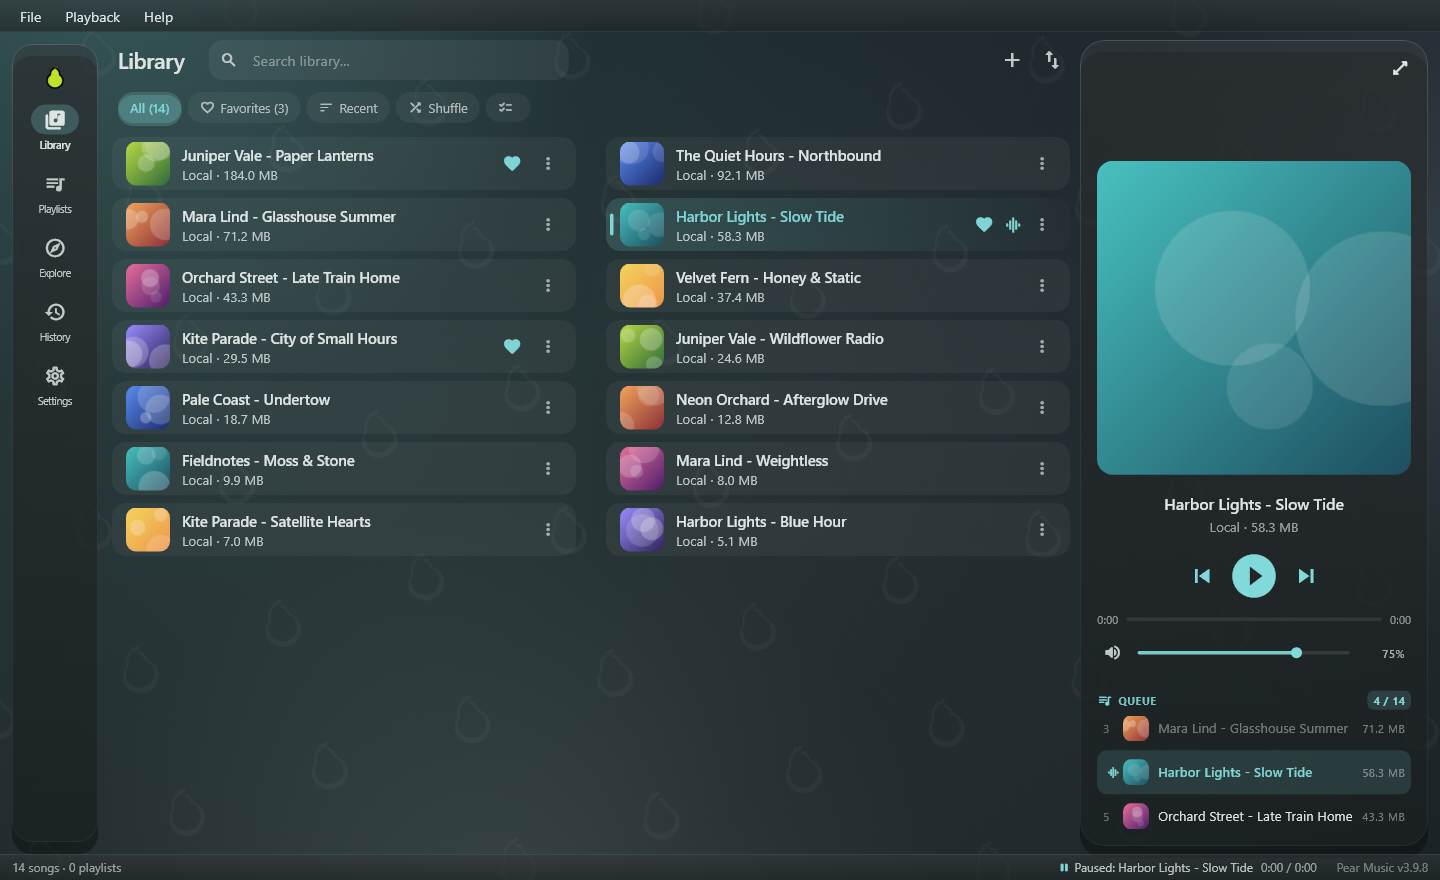
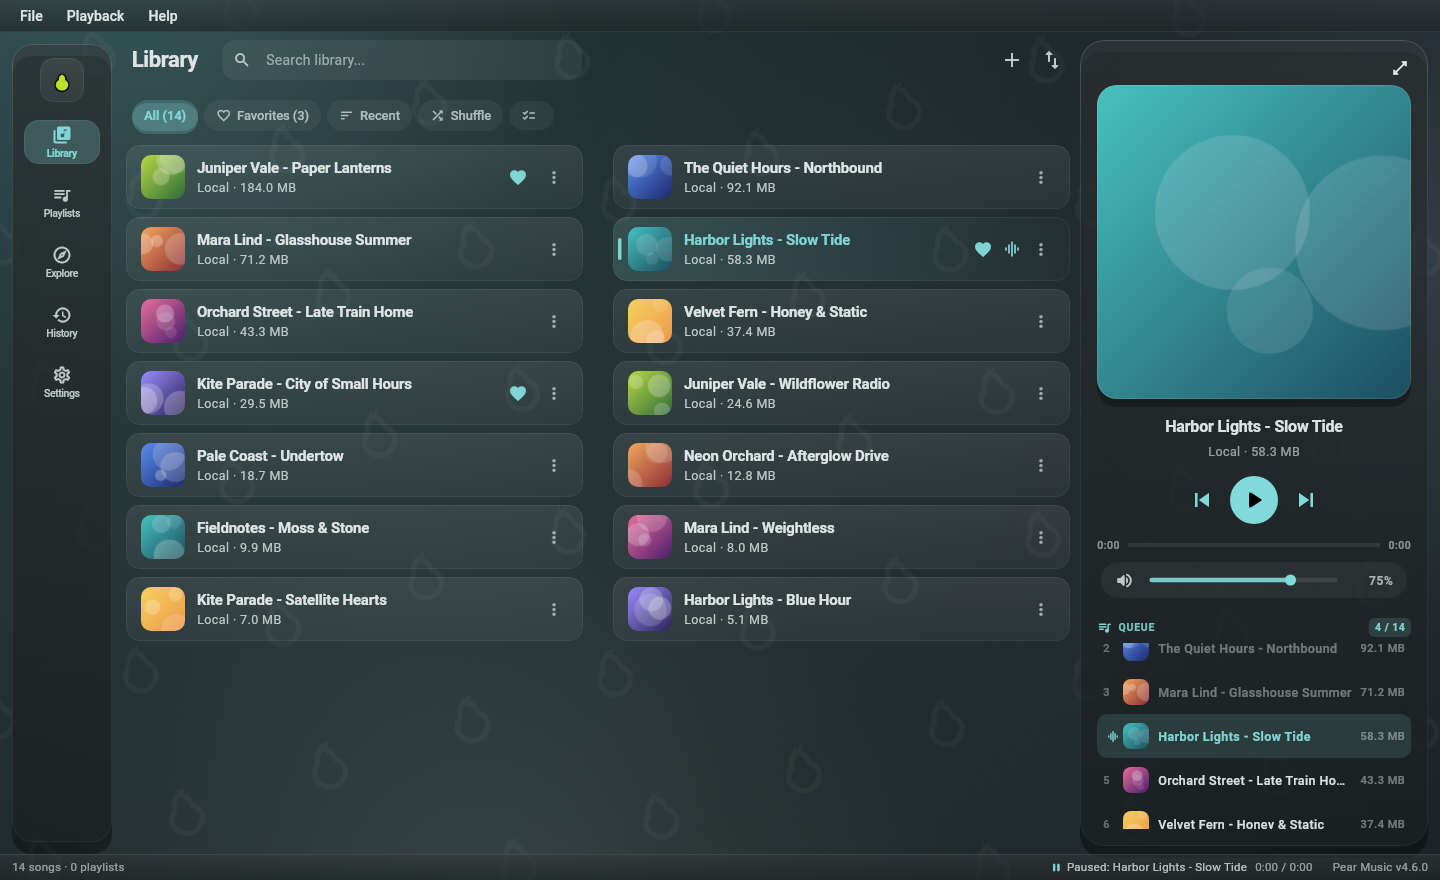
docs: README screenshots show v4.6.0 and the backlog is brought up to date
The screenshots were last rendered at v3.9.8. The screenshot tool now finds
the SDK's Roboto files on case-sensitive file systems, so it runs on Linux.
The backlog names v4.6.0, adds the unconfirmed fast engine, live stream and
visualizer wave changes to Start here, drops the artist item fixed in
v4.1.9, and notes the control port and how to regenerate screenshots.

diff --git a/app/tool/readme_shots/readme_shots_test.dart b/app/tool/readme_shots/readme_shots_test.dart
@@ -107,10 +107,24 @@ Future<void> _loadFonts() async {
   final exe = Platform.resolvedExecutable.replaceAll('\\', '/');
   final cache = exe.substring(0, exe.indexOf('/bin/cache/') + '/bin/cache'.length);
   final fonts = '$cache/artifacts/material_fonts';
+  // The SDK ships Roboto-Regular.ttf and so on; match names ignoring case so
+  // this also runs on case-sensitive file systems (Linux, macOS).
+  String resolve(String path) {
+    final file = File(path);
+    if (file.existsSync()) return path;
+    final name = path.split('/').last.toLowerCase();
+    for (final entry in file.parent.listSync()) {
+      if (entry.path.replaceAll('\\', '/').split('/').last.toLowerCase() == name) {
+        return entry.path;
+      }
+    }
+    return path;
+  }
+
   Future<void> load(String family, List<String> paths) async {
     final loader = FontLoader(family);
     for (final path in paths) {
-      final bytes = File(path).readAsBytesSync();
+      final bytes = File(resolve(path)).readAsBytesSync();
       loader.addFont(Future.value(ByteData.sublistView(bytes)));
     }
     await loader.load();

diff --git a/BACKLOG.md b/BACKLOG.md
@@ -1,12 +1,29 @@
 # Pear Music backlog
 
-Handover notes for the next working session. Latest release: **v4.4.3**. The lyric items below were written
-at v4.1.7 and have not been re-confirmed since (verified only by tests and the owner's reports; the agent
-cannot hear audio or run the app).
+Handover notes for the next working session. Latest release: **v4.6.0** (2026-10-11). The lyric items
+below were written at v4.1.7 and have not been re-confirmed since (verified only by tests and the owner's
+reports; the agent cannot hear audio or run the app).
 
 ## Start here
 
-1. **Confirm the v4.1.4 to v4.1.7 lyric changes by ear.** Nothing below was
+1. **Confirm the v4.5.0 and v4.6.0 changes on a real run.** Covered by tests
+   and the control port only, not yet confirmed by the owner:
+   - Fast engine (v4.5.0): songs are fetched by the built-in InnerTube engine
+     first (`innertube_audio_engine.dart`) and start after the first couple
+     of megabytes; yt-dlp handles whatever it can't. Check that first plays
+     are faster on a phone and that nothing falls back to yt-dlp needlessly
+     (the debug log notes `[fast-engine] ... failed` when it gives up on a song).
+   - Live streams (v4.5.0, v4.6.0): play through `live_hls_proxy.dart`, are
+     marked LIVE everywhere, have a Live pill in Explore, can be rewound by
+     as much as YouTube keeps (about an hour) and return to live with Go
+     live; a refused or expired link is replaced instead of ending the
+     stream. Check a long listen (30+ minutes) on both Windows and a phone,
+     and the mobile data figure (about 1 MB a minute expected).
+   - Visualizer wave (v4.5.0, v4.6.0): one soft wave on the player card and
+     an opt-in thin wave on the mini player (off by default, it costs
+     battery). The mini player wave should run at up to 60 fps and keep
+     moving while the window is visible but not in front.
+2. **Confirm the v4.1.4 to v4.1.7 lyric changes by ear.** Nothing below was
    heard by the agent. Ask the owner how HUMBLE. and Blinding Lights feel now:
    - v4.1.4: a line too long for its time (rap) is sung nonstop, no held last
      word, fills 95% of the time (the glow used to run ahead).
@@ -21,7 +38,7 @@ cannot hear audio or run the app).
      spaces back from NetEase's plain lyrics when the letters match exactly
      (`NeteaseLyrics.respaced`); older saved lyrics are refetched once
      (`[pear:spacing-checked]`). Not yet confirmed on the real song.
-2. **First line far off on Blinding Lights (NetEase).** The report shows the
+3. **First line far off on Blinding Lights (NetEase).** The report shows the
    line data itself is late: the "Yeah" the owner hears at 0:14 is stamped
    about 0:23 in NetEase's data (the rest of the song is mostly fine). Likely
    NetEase timed to a slightly different recording than the YouTube one (the
@@ -30,7 +47,7 @@ cannot hear audio or run the app).
    (pull the line earlier when the loudness pass sees a vocal onset far before
    its stamp; a guess, could misfire on long instrumental intros); or real
    alignment (below). Wait for more reports before building the check.
-3. **Lyric timing failures reported on v4.1.x** still need a Report timing
+4. **Lyric timing failures reported on v4.1.x** still need a Report timing
    (Lyrics Options) or at least "whole line early/late" vs "glow drifts
    within the line" (issue form: `.github/ISSUE_TEMPLATE/lyric-timing.yml`):
    - HUMBLE. (Kendrick Lamar): glow ran ahead (fixed in 4.1.4, unconfirmed).
@@ -45,7 +62,7 @@ cannot hear audio or run the app).
    The owner can't judge Japanese, Chinese or Korean lyrics, so treat those
    as unverified rather than failed. Saved lyrics record their source
    (`[pear:source:...]`); lyrics saved before 4.1.3 report it as unknown.
-4. **Idea, not built:** a "Try NetEase word timing" button in Lyrics Options
+5. **Idea, not built:** a "Try NetEase word timing" button in Lyrics Options
    so a hand-picked LRCLIB version can borrow real word timing when NetEase
    has it and fits the song length.
 
@@ -70,9 +87,16 @@ cannot hear audio or run the app).
 
 ## Smaller items
 
-- **Artist for downloaded songs.** `Song.artist` is filled for online songs
-  (v4.1.3) and shown on its own line in media controls. Songs saved to the
-  library and favorites restored from an import do not carry it yet.
+- **Split `PlayerService`.** `player_service.dart` is over 3,200 lines and
+  holds the queue, stream resolution, live streams and crossfade together.
+  Pulling out the stream resolution and the live stream handling would make
+  regressions easier to find.
+- **Silent `catch (_)` blocks.** About 125 in `lib/`, a dozen in
+  `update_service.dart` alone. Log the non-trivial ones to `debug_log` so
+  user reports carry the reason.
+- **Flaky `growing_file_audio_source_test`.** Failed once under a full-suite
+  run and passes alone (a timing race). Make it robust before it makes CI
+  unreliable.
 - **Android analysis priority.** The loudness and onset analysis runs in a
   normal-priority isolate (the Android decode itself is low priority). If a
   stutter a second or two into a song ever shows up, look here first.
@@ -112,8 +136,18 @@ cannot hear audio or run the app).
   `.github/workflows/release.yml`. Tag pushes are rejected from the cloud
   sandbox, so the owner pushes the tag. Keep tag messages free of quotes and
   apostrophes so they paste into PowerShell.
-- `growing_file_audio_source_test` failed once under a full-suite run and
-  passes alone (timing flake, unrelated to lyrics).
+- **Release notes** leave out build, ci, chore, test and docs commits. The
+  release script no longer limits how often releases are made.
+- **Driving a real run without a mouse:** the Windows app takes `--no-focus`
+  (shown behind every window, never activated) and `--control-port=<port>
+  --control-token=<16+ chars>` for a local control port (127.0.0.1 only; see
+  `lib/services/test_control.dart`). It can play a library song, seek a live
+  stream and report what the visualizer feed sees.
+- **README screenshots** are rendered offscreen with made-up songs:
+  `flutter test tool/readme_shots/readme_shots_test.dart --update-goldens` in
+  `app/`. Runs on Linux too; off Windows the desktop shot uses Roboto because
+  Segoe UI isn't there. Regenerate them after any visible change to the
+  library screen, the side pane or the status bar (which shows the version).
 - **Never print or commit real song lyrics** (in tests, renders or chat);
   use placeholder text. A real lyric line once got output blocked.
 - LRCLIB, NetEase and YouTube are unreachable from the cloud sandbox;
